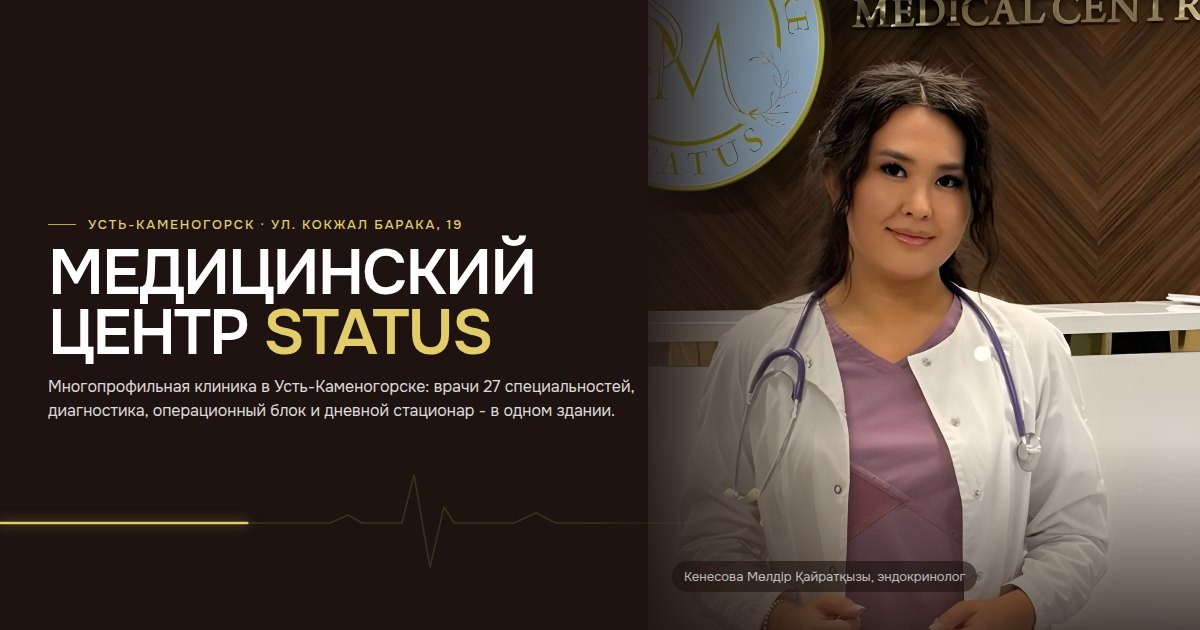
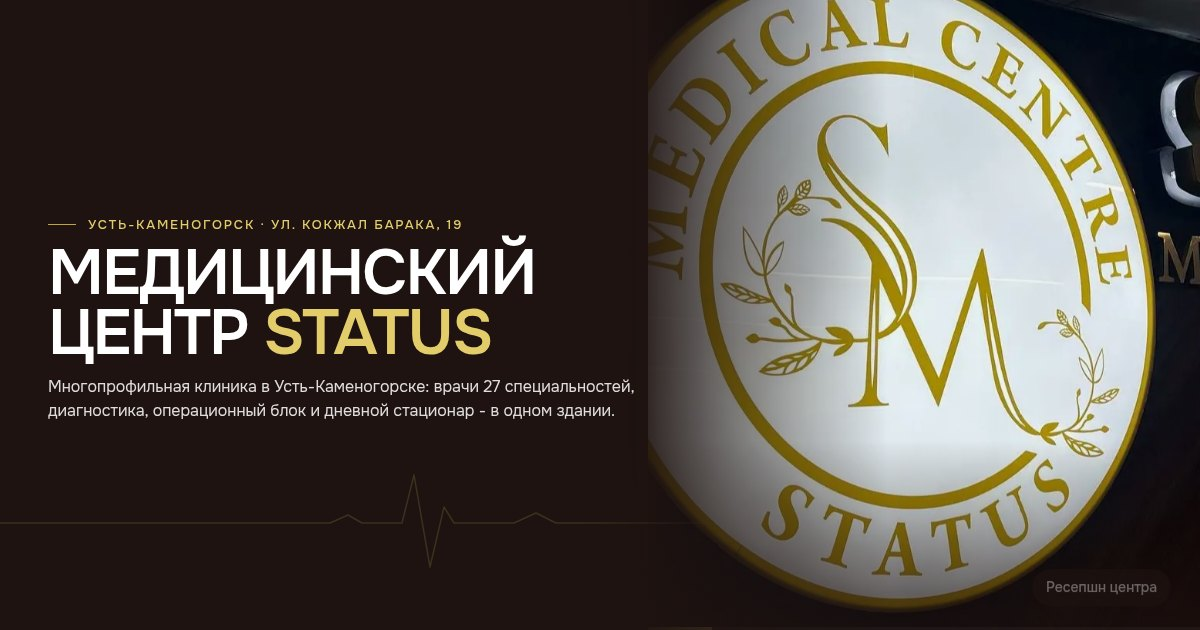
Герой: показ помещений клиники вместо фото врача

diff --git a/index.html b/index.html
@@ -25,7 +25,7 @@
 <link rel="preconnect" href="https://fonts.googleapis.com">
 <link rel="preconnect" href="https://fonts.gstatic.com" crossorigin>
 <link href="https://fonts.googleapis.com/css2?family=Onest:wght@300;400;500;600&display=swap" rel="stylesheet">
-<link rel="stylesheet" href="styles.css?v=20261106-38">
+<link rel="stylesheet" href="styles.css?v=20261106-41">
 <script type="application/ld+json">
 {
  "@context": "https://schema.org",
@@ -129,10 +129,15 @@
 
 <!-- ГЕРОЙ: чек-ап за один день - главный оффер -->
 <section class="hero hero-chk on-dark">
-  <picture class="hc-photo">
-    <source media="(max-width:860px)" srcset="assets/photos/hero-doc-m.webp">
-    <img src="assets/photos/hero-doc.webp" alt="Врач Status Medical Center у стойки регистрации с логотипом центра" width="1000" height="1250" fetchpriority="high" decoding="async">
-  </picture>
+  <div class="hc-photo hc-slides" id="hcSlides">
+    <figure class="sl on"><img src="assets/photos/sl-fasad.webp" alt="Здание Status Medical Center на улице Кокжал Барака, 19" width="720" height="900" decoding="async" fetchpriority="high"><figcaption data-i18n="hs.s0">Здание центра, Кокжал Барака, 19</figcaption></figure>
+    <figure class="sl"><img src="assets/photos/sl-wall.webp" alt="Фирменная стена с логотипом Status Medical Center у ресепшн" width="768" height="960" decoding="async" loading="lazy"><figcaption data-i18n="hs.s1">Ресепшн центра</figcaption></figure>
+    <figure class="sl"><img src="assets/photos/sl-lor.webp" alt="ЛОР-кабинет с оборудованием" width="900" height="1125" decoding="async" loading="lazy"><figcaption data-i18n="hs.s2">ЛОР-кабинет</figcaption></figure>
+    <figure class="sl"><img src="assets/photos/sl-uzi.webp" alt="Кабинет УЗИ с аппаратом экспертного класса" width="960" height="1125" decoding="async" loading="lazy"><figcaption data-i18n="hs.s3">Кабинет УЗИ</figcaption></figure>
+    <figure class="sl"><img src="assets/photos/sl-neuron.webp" alt="Комплекс Нейрон-Спектр в кабинете функциональной диагностики" width="649" height="811" decoding="async" loading="lazy"><figcaption data-i18n="hs.s4">Функциональная диагностика</figcaption></figure>
+    <figure class="sl"><img src="assets/photos/sl-endo.webp" alt="Видеоэндоскопическая стойка" width="677" height="846" decoding="async" loading="lazy"><figcaption data-i18n="hs.s5">Эндоскопия</figcaption></figure>
+    <div class="sl-bar" aria-hidden="true"><i></i></div>
+  </div>
   <div class="hc-shade"></div>
   <svg class="hc-ecg" viewBox="0 0 1200 120" preserveAspectRatio="none" aria-hidden="true"><path class="bg" d="M0 70 H330 l18 -8 l14 8 h40 l12 -48 l16 92 l14 -60 l10 16 h60 l22 -10 l20 10 H760 l18 -8 l14 8 h40 l12 -48 l16 92 l14 -60 l10 16 h60 l22 -10 l20 10 H1200"/><path class="fg" d="M0 70 H330 l18 -8 l14 8 h40 l12 -48 l16 92 l14 -60 l10 16 h60 l22 -10 l20 10 H760 l18 -8 l14 8 h40 l12 -48 l16 92 l14 -60 l10 16 h60 l22 -10 l20 10 H1200"/></svg>
   <div class="wrap hc-grid">
@@ -156,9 +161,8 @@
   <div class="hc-side">
     <div class="hc-stack" id="hcStack">
       <span class="hc-stack-k" data-i18n="h.stk2">В центре</span>
-      <ol><li><a href="#priem"><span data-i18n="d.1t">Приём специалистов</span><b class="num" data-i18n="d.1p">от&nbsp;8&nbsp;000&nbsp;₸</b></a></li><li><a href="#uzi"><span data-i18n="d.2t">УЗИ</span><b class="num" data-i18n="d.2p">от&nbsp;4&nbsp;000&nbsp;₸</b></a></li><li><a href="#diagnostika"><span data-i18n="d.3t">Функциональная диагностика</span><b class="num" data-i18n="d.3p">от&nbsp;3&nbsp;000&nbsp;₸</b></a></li><li><a href="#endoskopiya"><span data-i18n="d.4t">Эндоскопия</span><b class="num" data-i18n="d.4p">от&nbsp;21&nbsp;000&nbsp;₸</b></a></li><li><a href="#stacionar"><span data-i18n="d.12t">Дневной стационар</span><b class="num">5&nbsp;000-25&nbsp;000&nbsp;₸</b></a></li><li><a href="plastika/"><span data-i18n="d.9t">Пластическая хирургия</span><b class="num" data-i18n="d.9p">от&nbsp;150&nbsp;000&nbsp;₸</b></a></li><li><a href="pohudenie/"><span data-i18n="d.10t">Программа снижения веса</span><b class="num" data-i18n="d.10p">от&nbsp;55&nbsp;000&nbsp;₸</b></a></li></ol>
+      <ol><li data-sl="2"><a href="#priem"><span data-i18n="d.1t">Приём специалистов</span><b class="num" data-i18n="d.1p">от&nbsp;8&nbsp;000&nbsp;₸</b></a></li><li data-sl="3"><a href="#uzi"><span data-i18n="d.2t">УЗИ</span><b class="num" data-i18n="d.2p">от&nbsp;4&nbsp;000&nbsp;₸</b></a></li><li data-sl="4"><a href="#diagnostika"><span data-i18n="d.3t">Функциональная диагностика</span><b class="num" data-i18n="d.3p">от&nbsp;3&nbsp;000&nbsp;₸</b></a></li><li data-sl="5"><a href="#endoskopiya"><span data-i18n="d.4t">Эндоскопия</span><b class="num" data-i18n="d.4p">от&nbsp;21&nbsp;000&nbsp;₸</b></a></li><li><a href="#stacionar"><span data-i18n="d.12t">Дневной стационар</span><b class="num">5&nbsp;000-25&nbsp;000&nbsp;₸</b></a></li><li><a href="plastika/"><span data-i18n="d.9t">Пластическая хирургия</span><b class="num" data-i18n="d.9p">от&nbsp;150&nbsp;000&nbsp;₸</b></a></li><li><a href="pohudenie/"><span data-i18n="d.10t">Программа снижения веса</span><b class="num" data-i18n="d.10p">от&nbsp;55&nbsp;000&nbsp;₸</b></a></li></ol>
     </div>
-    <span class="hc-tag" data-i18n="h.tag">Кенесова Мөлдір Қайратқызы, эндокринолог</span>
   </div>
 </section>
 
@@ -748,6 +752,6 @@
 <script src="assets/vendor/ScrollTrigger.min.js"></script>
 <script src="assets/vendor/SplitText.min.js"></script>
 <script src="assets/vendor/lenis.min.js"></script>
-<script src="script.js?v=20261106-38"></script>
+<script src="script.js?v=20261106-41"></script>
 </body>
 </html>

diff --git a/styles.css b/styles.css
@@ -726,7 +726,7 @@ body.menu-open .burger i:nth-child(3){transform:translateY(-7px) rotate(-45deg)}
 /* ===== герой главной: чек-ап за один день ===== */
 .hero-chk{background:var(--walnut-3);color:#fff;min-height:calc(100svh - var(--hdr));isolation:isolate;padding:clamp(40px,6vw,88px) 0}
 .hc-photo{position:absolute;top:0;right:0;bottom:0;width:min(46%,760px);z-index:0}
-.hc-photo img{width:100%;height:100%;object-fit:cover;object-position:50% 22%;display:block}
+
 .hc-shade{position:absolute;inset:0;z-index:1;pointer-events:none;
   background:linear-gradient(90deg,var(--walnut-3) 0,var(--walnut-3) 52%,rgba(30,19,16,.6) 60%,rgba(30,19,16,0) 74%),
   linear-gradient(0deg,rgba(30,19,16,.75) 0,rgba(30,19,16,0) 30%),
@@ -800,3 +800,18 @@ body.menu-open .burger i:nth-child(3){transform:translateY(-7px) rotate(-45deg)}
 @media (max-width:860px){.hero-chk{padding:0 0 calc(84px + env(safe-area-inset-bottom))}}
 @media (max-width:860px){.hc-photo{height:clamp(190px,46svh,400px)}.hc-ecg{display:none}}
 @media (max-width:860px) and (max-height:700px){.hc-photo{height:170px}}
+
+/* герой: показ помещений клиники */
+.hc-slides{overflow:hidden;background:#2a1d17}
+.hc-slides .sl{position:absolute;inset:0;margin:0;opacity:0;transition:opacity 1.1s var(--ease)}
+.hc-slides .sl.on{opacity:1}
+.hc-slides .sl img{width:100%;height:100%;object-fit:cover;object-position:50% 40%;display:block;transform:scale(1.08);transition:transform 7s linear}
+.hc-slides .sl.on img{transform:scale(1)}
+.hc-slides figcaption{position:absolute;right:clamp(16px,2.4vw,32px);bottom:clamp(20px,4vh,40px);z-index:2;padding:8px 14px;border-radius:999px;background:rgba(30,19,16,.72);color:#fff;font-size:14px;font-weight:500;opacity:0;transform:translateY(8px);transition:opacity .6s var(--ease) .4s,transform .6s var(--ease) .4s}
+.hc-slides .sl.on figcaption{opacity:1;transform:none}
+.sl-bar{position:absolute;left:0;right:0;bottom:0;height:3px;z-index:3;background:rgba(255,255,255,.12)}
+.sl-bar i{display:block;height:100%;width:0;background:var(--gold-2)}
+.sl-bar i.run{width:100%;transition:width var(--sl-dur,5s) linear}
+@media (prefers-reduced-motion:reduce){.hc-slides .sl img{transition:none;transform:none}}
+@media (max-width:860px){.hc-slides figcaption{bottom:auto;top:12px;right:12px;font-size:13px}}
+@media (max-width:860px){.hc-slides .sl img{object-position:50% 60%}}

diff --git a/script.js b/script.js
@@ -386,18 +386,23 @@
     gsap.from('.city .doc-frame, .city .doc-cap', { y: 40, opacity: 0, duration: 1.2, stagger: .15, delay: .3 });
   }
 
-  /* ---------- герой чек-апа: подсветка бежит по программам ---------- */
-  var stack = $('#hcStack');
-  if (stack && !reduced) {
-    var srows = $$('li', stack), si = 0, svis = true, shover = false;
-    new IntersectionObserver(function (es) { svis = es[0].isIntersecting; }).observe(stack);
-    stack.addEventListener('mouseenter', function () { shover = true; srows.forEach(function (r) { r.classList.remove('on'); }); });
-    stack.addEventListener('mouseleave', function () { shover = false; });
-    setInterval(function () {
-      if (!svis || shover) return;
-      srows.forEach(function (r, i) { r.classList.toggle('on', i === si); });
-      si = (si + 1) % srows.length;
-    }, 1700);
+  /* ---------- герой: показ помещений, строка списка подсвечивается вместе с кадром ---------- */
+  var slw = $('#hcSlides');
+  if (slw) {
+    var sls = $$('.sl', slw), bar = $('.sl-bar i', slw), srow = $$('#hcStack li'), cur = 0, svis = true, DUR = 5200;
+    function show(n) {
+      sls.forEach(function (f, i) { f.classList.toggle('on', i === n); });
+      srow.forEach(function (r) { r.classList.toggle('on', r.getAttribute('data-sl') === String(n)); });
+      if (bar && !reduced) { bar.classList.remove('run'); void bar.offsetWidth; slw.style.setProperty('--sl-dur', DUR + 'ms'); bar.classList.add('run'); }
+      cur = n;
+    }
+    srow.forEach(function (r) {
+      if (!r.hasAttribute('data-sl')) return;
+      r.addEventListener('mouseenter', function () { show(parseInt(r.getAttribute('data-sl'), 10)); });
+    });
+    new IntersectionObserver(function (es) { svis = es[0].isIntersecting; }).observe(slw);
+    show(0);
+    if (!reduced) setInterval(function () { if (svis && !document.hidden) show((cur + 1) % sls.length); }, DUR);
   }
   var ecg = $('.hc-ecg');
   if (ecg) new IntersectionObserver(function (es) { ecg.classList.toggle('paused', !es[0].isIntersecting); }).observe(ecg);

diff --git a/plastika/index.html b/plastika/index.html
@@ -25,7 +25,7 @@
 <link rel="preconnect" href="https://fonts.googleapis.com">
 <link rel="preconnect" href="https://fonts.gstatic.com" crossorigin>
 <link href="https://fonts.googleapis.com/css2?family=Onest:wght@300;400;500;600&display=swap" rel="stylesheet">
-<link rel="stylesheet" href="../styles.css?v=20261106-38">
+<link rel="stylesheet" href="../styles.css?v=20261106-41">
 <script type="application/ld+json">
 [
  {
@@ -365,6 +365,6 @@
 <script src="../assets/vendor/ScrollTrigger.min.js"></script>
 <script src="../assets/vendor/SplitText.min.js"></script>
 <script src="../assets/vendor/lenis.min.js"></script>
-<script src="../script.js?v=20261106-38"></script>
+<script src="../script.js?v=20261106-41"></script>
 </body>
 </html>

diff --git a/pohudenie/index.html b/pohudenie/index.html
@@ -25,7 +25,7 @@
 <link rel="preconnect" href="https://fonts.googleapis.com">
 <link rel="preconnect" href="https://fonts.gstatic.com" crossorigin>
 <link href="https://fonts.googleapis.com/css2?family=Onest:wght@300;400;500;600&display=swap" rel="stylesheet">
-<link rel="stylesheet" href="../styles.css?v=20261106-38">
+<link rel="stylesheet" href="../styles.css?v=20261106-41">
 <script type="application/ld+json">
 [
  {
@@ -412,6 +412,6 @@
 <script src="../assets/vendor/ScrollTrigger.min.js"></script>
 <script src="../assets/vendor/SplitText.min.js"></script>
 <script src="../assets/vendor/lenis.min.js"></script>
-<script src="../script.js?v=20261106-38"></script>
+<script src="../script.js?v=20261106-41"></script>
 </body>
 </html>

diff --git a/assets/lang/kk.js b/assets/lang/kk.js
@@ -261,5 +261,11 @@ window.SITE_KK = {
   "h.stk": "Чек-ап бағдарламалары",
   "h.tag": "Кенесова Мөлдір Қайратқызы, эндокринолог",
   "h.btn7": "Бағыттар мен бағалар",
-  "h.stk2": "Орталықта"
+  "h.stk2": "Орталықта",
+  "hs.s0": "Орталық ғимараты, Көкжал Барақ, 19",
+  "hs.s1": "Орталықтың ресепшні",
+  "hs.s2": "ЛОР кабинеті",
+  "hs.s3": "УДЗ кабинеті",
+  "hs.s4": "Функционалдық диагностика",
+  "hs.s5": "Эндоскопия"
 };
